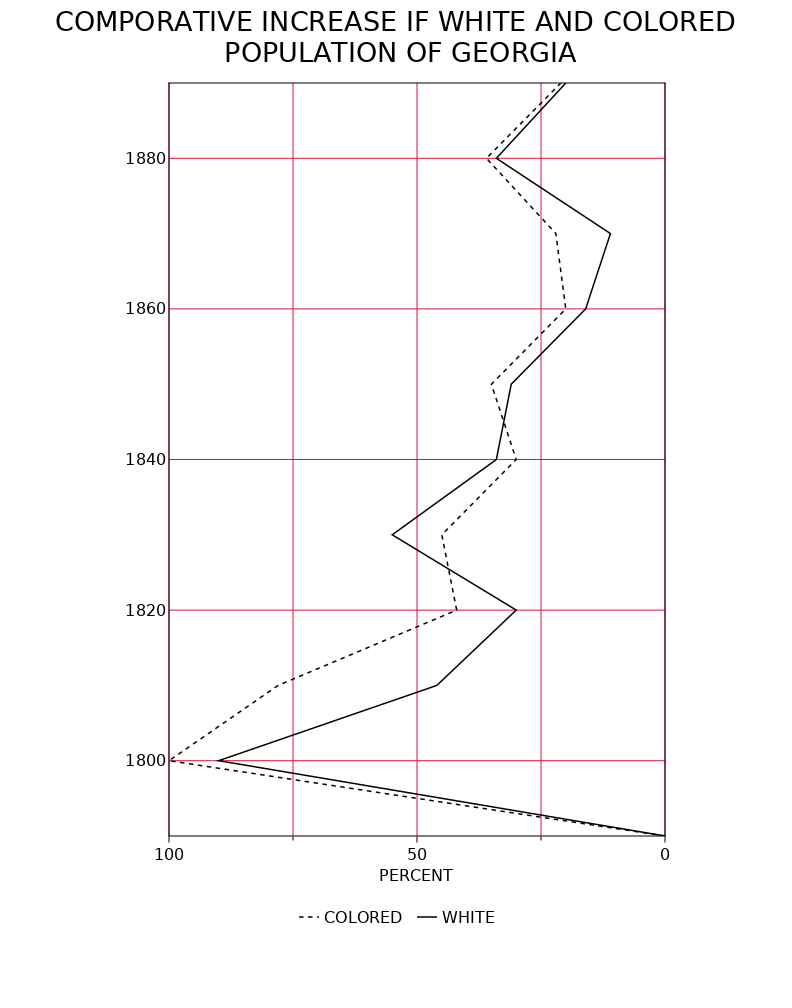
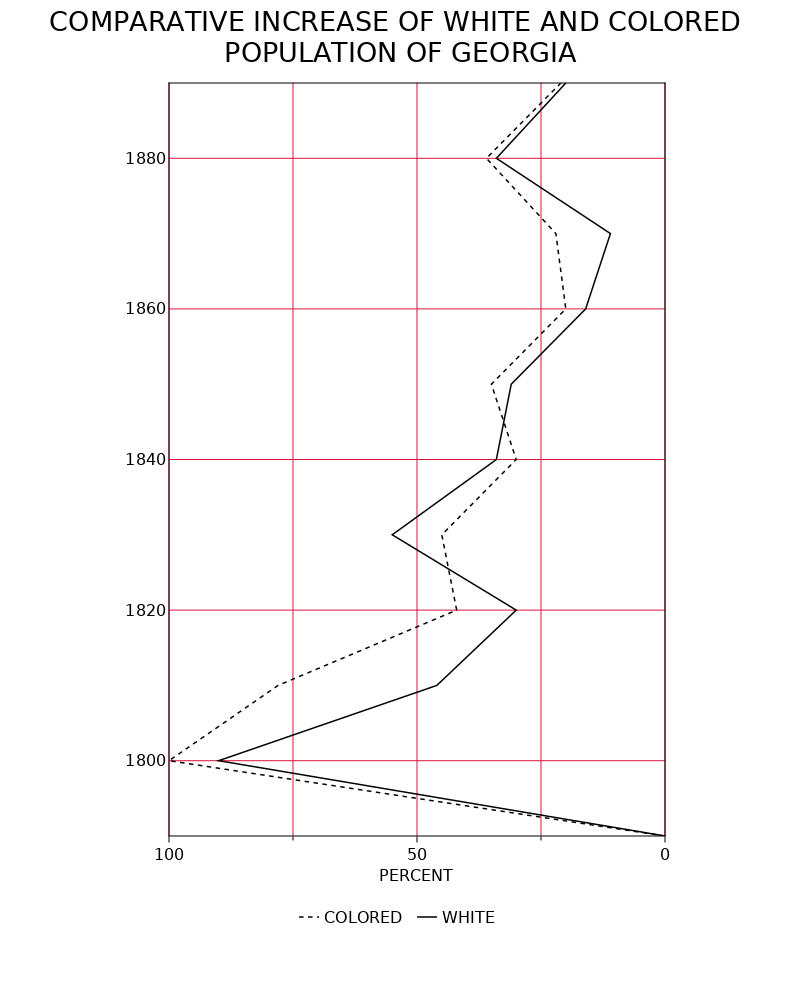
build based on 8bdc73d

Changed region(s): [[0.0606, 0.0, 0.9394, 0.0308]]

diff --git a/dev/search_index.js b/dev/search_index.js
@@ -1,3 +1,3 @@
 var documenterSearchIndex = {"docs":
-[{"location":"examples/#Examples","page":"Examples","title":"Examples","text":"","category":"section"},{"location":"examples/","page":"Examples","title":"Examples","text":"To show how to use the package in more detail we show how to use the recipes to replicate  the original plates by DuBois.","category":"page"},{"location":"examples/","page":"Examples","title":"Examples","text":"using DuBoisPlots\nusing CairoMakie # hide","category":"page"},{"location":"examples/#Plate-7","page":"Examples","title":"Plate 7","text":"","category":"section"},{"location":"examples/","page":"Examples","title":"Examples","text":"p = Plate7(DuBoisData.Plate7, :Year; \n        title=\"Comporative Increase if White and Colored \\n Population of Georgia\", \n        xlabel = \"Percent\")\nsave(\"plate7.png\", p) # hide\nnothing # hide","category":"page"},{"location":"examples/","page":"Examples","title":"Examples","text":"Original Replication\n(Image: Plot!) (Image: Replication)","category":"page"},{"location":"examples/#Plate-10","page":"Examples","title":"Plate 10","text":"","category":"section"},{"location":"examples/","page":"Examples","title":"Examples","text":"p =Plate10(DuBoisData.Plate10,:Age,:Population, 3:5,\n        [\"15-55\", \"45-65\", \"65+\"],\n        [\"Germany\", \"United States\"],\n        [\"Single\", \"Divorced\", \"Married\"],\"Conjugal Condition\")\nsave(\"plate10.png\", p) #hide\nnothing  #hide","category":"page"},{"location":"examples/","page":"Examples","title":"Examples","text":"Original Replication\n(Image: Plot!) (Image: Replication)","category":"page"},{"location":"examples/#Plate-11","page":"Examples","title":"Plate 11","text":"","category":"section"},{"location":"examples/","page":"Examples","title":"Examples","text":"p = Plate11(DuBoisData.Plate11,:Population,\n        [-0.0,0.12], [0.09,0.1], [0.025,0.075], [0.03,-0.09], [0.035,-0.035],\n        \"no\", \"City and Rural Population \\n 1890.\",\n        \" negroes in cities \\n of over 10,000 inhabitants\",\n        \" negroes in cities \\n from 5,000 to 10,000\", \n        \" \\n negroes \\n in cities \\n from \\n 2,500 to 5,000\",\n        \" Negroes living in the country and villages\")\nsave(\"plate11.png\", p) #hide\nnothing  #hide","category":"page"},{"location":"examples/","page":"Examples","title":"Examples","text":"Original Replication\n(Image: Plot!) (Image: Replication)","category":"page"},{"location":"examples/#Plate-25","page":"Examples","title":"Plate 25","text":"","category":"section"},{"location":"examples/","page":"Examples","title":"Examples","text":"p = Plate25(DuBoisData.Plate25,:Year,:Value,\n        \"Assessed value of household and kitchen furniture \\n owned by Georgia negroes\")\nsave(\"plate25.png\", p) # hide\nnothing # hide","category":"page"},{"location":"examples/","page":"Examples","title":"Examples","text":"Original Replication\n(Image: Plot!) (Image: Replication)","category":"page"},{"location":"examples/#Plate-51","page":"Examples","title":"Plate 51","text":"","category":"section"},{"location":"examples/","page":"Examples","title":"Examples","text":"p = Plate51(DuBoisData.Plate51, :Year; \n        title=\"Proportion of Freemen and Salves Among American Negroes.\",\n        small_title=\"Proportion des Negres Libres et des Esclaves en Amerique\",\n        subtitle=\"Reproduced by DuBoisPlots.jl\")\nsave(\"plate51.png\", p)  # hide\nnothing # hide","category":"page"},{"location":"examples/","page":"Examples","title":"Examples","text":"Original Replication\n(Image: Plot!) (Image: Replication)","category":"page"},{"location":"examples/#Plate-53","page":"Examples","title":"Plate 53","text":"","category":"section"},{"location":"examples/","page":"Examples","title":"Examples","text":"p = Plate53(DuBoisData.Plate53,:Ages,:Gender,\n        [:Single, :Married, :Widowed],[45 1.2; 55 4.7; 93 8.], [25 2; 45 5.5; 65 8.],\n        title_1 = \"Conjugal condition of American Negroes according to age periods.\",\n        title_2 = \"Condition conjugale des Negres Americains au point de vue de l' age.\",\n        subtitle = \"Done by Atlanta University.\", bot_lab = \"PER CENTS.\")\nsave(\"plate53.png\", p) # hide\nnothing # hide","category":"page"},{"location":"examples/","page":"Examples","title":"Examples","text":"Original Replication\n(Image: Plot!) (Image: Replication)","category":"page"},{"location":"","page":"Home","title":"Home","text":"CurrentModule = DuBoisPlots","category":"page"},{"location":"#DuBoisPlots","page":"Home","title":"DuBoisPlots","text":"","category":"section"},{"location":"","page":"Home","title":"Home","text":"The package exports functions PlateX(df::DataFrame,args;OptionalArgs) that are used to replicate a specific plate. In addition, it also exports all the original data in DuBoisData.PlateX. ","category":"page"},{"location":"","page":"Home","title":"Home","text":"The Examples page displays the set of currently included plates and side-by-side comparisons to the original plates.","category":"page"},{"location":"","page":"Home","title":"Home","text":"To recreate Plates 11 and 51 you would do","category":"page"},{"location":"","page":"Home","title":"Home","text":"using DuBoisPlots\nusing CairoMakie # hide\np11 = Plate11(DuBoisData.Plate11,:Population,[-0.0,0.12], [0.09,0.1], [0.025,0.075], [0.03,-0.09], [0.035,-0.035],\n    \"no\", \"City and Rural Population \\n 1890.\", \" negroes in cities \\n of over 10,000 inhabitants\",\n    \" negroes in cities \\n from 5,000 to 10,000\", \" \\n negroes \\n in cities \\n from \\n 2,500 to 5,000\",\n    \" Negroes living in the country and villages\")\np51 = Plate51(DuBoisData.Plate51, :Year;\n        title=\"Proportion of Freemen and Salves Among American Negroes.\",\n        small_title=\"Proportion des Negres Libres et des Esclaves en Amerique\",\n        subtitle=\"Reproduced by DuBoisPlots.jl\")\nsave(\"plate51_index.png\", p51) #hide\nsave(\"plate11_index.png\", p11) #hide\nnothing  #hide","category":"page"},{"location":"","page":"Home","title":"Home","text":"Plate 11 Plate 51\n(Image: Plot!) (Image: Replication)","category":"page"},{"location":"#Index","page":"Home","title":"Index","text":"","category":"section"},{"location":"","page":"Home","title":"Home","text":"","category":"page"}]
+[{"location":"examples/#Examples","page":"Examples","title":"Examples","text":"","category":"section"},{"location":"examples/","page":"Examples","title":"Examples","text":"To show how to use the package in more detail we show how to use the recipes to replicate  the original plates by DuBois.","category":"page"},{"location":"examples/","page":"Examples","title":"Examples","text":"using DuBoisPlots\nusing CairoMakie # hide","category":"page"},{"location":"examples/#Plate-7","page":"Examples","title":"Plate 7","text":"","category":"section"},{"location":"examples/","page":"Examples","title":"Examples","text":"p = Plate7(DuBoisData.Plate7, :Year; \n        title=\"Comparative Increase of White and Colored \\n Population of Georgia\", \n        xlabel = \"Percent\")\nsave(\"plate7.png\", p) # hide\nnothing # hide","category":"page"},{"location":"examples/","page":"Examples","title":"Examples","text":"Original Replication\n(Image: Plot!) (Image: Replication)","category":"page"},{"location":"examples/#Plate-10","page":"Examples","title":"Plate 10","text":"","category":"section"},{"location":"examples/","page":"Examples","title":"Examples","text":"p =Plate10(DuBoisData.Plate10,:Age,:Population, 3:5,\n        [\"15-55\", \"45-65\", \"65+\"],\n        [\"Germany\", \"United States\"],\n        [\"Single\", \"Divorced\", \"Married\"],\"Conjugal Condition\")\nsave(\"plate10.png\", p) #hide\nnothing  #hide","category":"page"},{"location":"examples/","page":"Examples","title":"Examples","text":"Original Replication\n(Image: Plot!) (Image: Replication)","category":"page"},{"location":"examples/#Plate-11","page":"Examples","title":"Plate 11","text":"","category":"section"},{"location":"examples/","page":"Examples","title":"Examples","text":"p = Plate11(DuBoisData.Plate11,:Population,\n        [-0.0,0.12], [0.09,0.1], [0.025,0.075], [0.03,-0.09], [0.035,-0.035],\n        \"no\", \"City and Rural Population \\n 1890.\",\n        \" negroes in cities \\n of over 10,000 inhabitants\",\n        \" negroes in cities \\n from 5,000 to 10,000\", \n        \" \\n negroes \\n in cities \\n from \\n 2,500 to 5,000\",\n        \" Negroes living in the country and villages\")\nsave(\"plate11.png\", p) #hide\nnothing  #hide","category":"page"},{"location":"examples/","page":"Examples","title":"Examples","text":"Original Replication\n(Image: Plot!) (Image: Replication)","category":"page"},{"location":"examples/#Plate-25","page":"Examples","title":"Plate 25","text":"","category":"section"},{"location":"examples/","page":"Examples","title":"Examples","text":"p = Plate25(DuBoisData.Plate25,:Year,:Value,\n        \"Assessed value of household and kitchen furniture \\n owned by Georgia negroes\")\nsave(\"plate25.png\", p) # hide\nnothing # hide","category":"page"},{"location":"examples/","page":"Examples","title":"Examples","text":"Original Replication\n(Image: Plot!) (Image: Replication)","category":"page"},{"location":"examples/#Plate-51","page":"Examples","title":"Plate 51","text":"","category":"section"},{"location":"examples/","page":"Examples","title":"Examples","text":"p = Plate51(DuBoisData.Plate51, :Year; \n        title=\"Proportion of Freemen and Salves Among American Negroes.\",\n        small_title=\"Proportion des Negres Libres et des Esclaves en Amerique\",\n        subtitle=\"Reproduced by DuBoisPlots.jl\")\nsave(\"plate51.png\", p)  # hide\nnothing # hide","category":"page"},{"location":"examples/","page":"Examples","title":"Examples","text":"Original Replication\n(Image: Plot!) (Image: Replication)","category":"page"},{"location":"examples/#Plate-53","page":"Examples","title":"Plate 53","text":"","category":"section"},{"location":"examples/","page":"Examples","title":"Examples","text":"p = Plate53(DuBoisData.Plate53,:Ages,:Gender,\n        [:Single, :Married, :Widowed],[45 1.2; 55 4.7; 93 8.], [25 2; 45 5.5; 65 8.],\n        title_1 = \"Conjugal condition of American Negroes according to age periods.\",\n        title_2 = \"Condition conjugale des Negres Americains au point de vue de l' age.\",\n        subtitle = \"Done by Atlanta University.\", bot_lab = \"PER CENTS.\")\nsave(\"plate53.png\", p) # hide\nnothing # hide","category":"page"},{"location":"examples/","page":"Examples","title":"Examples","text":"Original Replication\n(Image: Plot!) (Image: Replication)","category":"page"},{"location":"","page":"Home","title":"Home","text":"CurrentModule = DuBoisPlots","category":"page"},{"location":"#DuBoisPlots","page":"Home","title":"DuBoisPlots","text":"","category":"section"},{"location":"","page":"Home","title":"Home","text":"The package exports functions PlateX(df::DataFrame,args;OptionalArgs) that are used to replicate a specific plate. In addition, it also exports all the original data in DuBoisData.PlateX. ","category":"page"},{"location":"","page":"Home","title":"Home","text":"The Examples page displays the set of currently included plates and side-by-side comparisons to the original plates.","category":"page"},{"location":"","page":"Home","title":"Home","text":"To recreate Plates 11 and 51 you would do","category":"page"},{"location":"","page":"Home","title":"Home","text":"using DuBoisPlots\nusing CairoMakie # hide\np11 = Plate11(DuBoisData.Plate11,:Population,[-0.0,0.12], [0.09,0.1], [0.025,0.075], [0.03,-0.09], [0.035,-0.035],\n    \"no\", \"City and Rural Population \\n 1890.\", \" negroes in cities \\n of over 10,000 inhabitants\",\n    \" negroes in cities \\n from 5,000 to 10,000\", \" \\n negroes \\n in cities \\n from \\n 2,500 to 5,000\",\n    \" Negroes living in the country and villages\")\np51 = Plate51(DuBoisData.Plate51, :Year;\n        title=\"Proportion of Freemen and Salves Among American Negroes.\",\n        small_title=\"Proportion des Negres Libres et des Esclaves en Amerique\",\n        subtitle=\"Reproduced by DuBoisPlots.jl\")\nsave(\"plate51_index.png\", p51) #hide\nsave(\"plate11_index.png\", p11) #hide\nnothing  #hide","category":"page"},{"location":"","page":"Home","title":"Home","text":"Plate 11 Plate 51\n(Image: Plot!) (Image: Replication)","category":"page"},{"location":"#Index","page":"Home","title":"Index","text":"","category":"section"},{"location":"","page":"Home","title":"Home","text":"","category":"page"}]
 }

diff --git a/dev/examples/index.html b/dev/examples/index.html
@@ -1,6 +1,6 @@
 <!DOCTYPE html>
 <html lang="en"><head><meta charset="UTF-8"/><meta name="viewport" content="width=device-width, initial-scale=1.0"/><title>Examples · DuBoisPlots.jl</title><script data-outdated-warner src="../assets/warner.js"></script><link rel="canonical" href="https://eirikbrandsaas.github.io/DuBoisPlots.jl/examples/"/><link href="https://cdnjs.cloudflare.com/ajax/libs/lato-font/3.0.0/css/lato-font.min.css" rel="stylesheet" type="text/css"/><link href="https://cdnjs.cloudflare.com/ajax/libs/juliamono/0.044/juliamono.css" rel="stylesheet" type="text/css"/><link href="https://cdnjs.cloudflare.com/ajax/libs/font-awesome/5.15.3/css/fontawesome.min.css" rel="stylesheet" type="text/css"/><link href="https://cdnjs.cloudflare.com/ajax/libs/font-awesome/5.15.3/css/solid.min.css" rel="stylesheet" type="text/css"/><link href="https://cdnjs.cloudflare.com/ajax/libs/font-awesome/5.15.3/css/brands.min.css" rel="stylesheet" type="text/css"/><link href="https://cdnjs.cloudflare.com/ajax/libs/KaTeX/0.13.11/katex.min.css" rel="stylesheet" type="text/css"/><script>documenterBaseURL=".."</script><script src="https://cdnjs.cloudflare.com/ajax/libs/require.js/2.3.6/require.min.js" data-main="../assets/documenter.js"></script><script src="../siteinfo.js"></script><script src="../../versions.js"></script><link class="docs-theme-link" rel="stylesheet" type="text/css" href="../assets/themes/documenter-dark.css" data-theme-name="documenter-dark" data-theme-primary-dark/><link class="docs-theme-link" rel="stylesheet" type="text/css" href="../assets/themes/documenter-light.css" data-theme-name="documenter-light" data-theme-primary/><script src="../assets/themeswap.js"></script></head><body><div id="documenter"><nav class="docs-sidebar"><div class="docs-package-name"><span class="docs-autofit"><a href="../">DuBoisPlots.jl</a></span></div><form class="docs-search" action="../search/"><input class="docs-search-query" id="documenter-search-query" name="q" type="text" placeholder="Search docs"/></form><ul class="docs-menu"><li><a class="tocitem" href="../">Home</a></li><li class="is-active"><a class="tocitem" href>Examples</a><ul class="internal"><li><a class="tocitem" href="#Plate-7"><span>Plate 7</span></a></li><li><a class="tocitem" href="#Plate-10"><span>Plate 10</span></a></li><li><a class="tocitem" href="#Plate-11"><span>Plate 11</span></a></li><li><a class="tocitem" href="#Plate-25"><span>Plate 25</span></a></li><li><a class="tocitem" href="#Plate-51"><span>Plate 51</span></a></li><li><a class="tocitem" href="#Plate-53"><span>Plate 53</span></a></li></ul></li></ul><div class="docs-version-selector field has-addons"><div class="control"><span class="docs-label button is-static is-size-7">Version</span></div><div class="docs-selector control is-expanded"><div class="select is-fullwidth is-size-7"><select id="documenter-version-selector"></select></div></div></div></nav><div class="docs-main"><header class="docs-navbar"><nav class="breadcrumb"><ul class="is-hidden-mobile"><li class="is-active"><a href>Examples</a></li></ul><ul class="is-hidden-tablet"><li class="is-active"><a href>Examples</a></li></ul></nav><div class="docs-right"><a class="docs-edit-link" href="https://github.com/eirikbrandsaas/DuBoisPlots.jl/blob/main/docs/src/examples.md#" title="Edit on GitHub"><span class="docs-icon fab"></span><span class="docs-label is-hidden-touch">Edit on GitHub</span></a><a class="docs-settings-button fas fa-cog" id="documenter-settings-button" href="#" title="Settings"></a><a class="docs-sidebar-button fa fa-bars is-hidden-desktop" id="documenter-sidebar-button" href="#"></a></div></header><article class="content" id="documenter-page"><h1 id="Examples"><a class="docs-heading-anchor" href="#Examples">Examples</a><a id="Examples-1"></a><a class="docs-heading-anchor-permalink" href="#Examples" title="Permalink"></a></h1><p>To show how to use the package in more detail we show how to use the recipes to replicate  the original plates by DuBois.</p><pre><code class="language-julia hljs">using DuBoisPlots</code></pre><h2 id="Plate-7"><a class="docs-heading-anchor" href="#Plate-7">Plate 7</a><a id="Plate-7-1"></a><a class="docs-heading-anchor-permalink" href="#Plate-7" title="Permalink"></a></h2><pre><code class="language-julia hljs">p = Plate7(DuBoisData.Plate7, :Year;
-        title=&quot;Comporative Increase if White and Colored \n Population of Georgia&quot;,
+        title=&quot;Comparative Increase of White and Colored \n Population of Georgia&quot;,
         xlabel = &quot;Percent&quot;)</code></pre><table><tr><th style="text-align: center">Original</th><th style="text-align: center">Replication</th></tr><tr><td style="text-align: center"><img src="../assets/original-plate-07.jpg" alt="Plot!"/></td><td style="text-align: center"><img src="../plate7.png" alt="Replication"/></td></tr></table><h2 id="Plate-10"><a class="docs-heading-anchor" href="#Plate-10">Plate 10</a><a id="Plate-10-1"></a><a class="docs-heading-anchor-permalink" href="#Plate-10" title="Permalink"></a></h2><pre><code class="language-julia hljs">p =Plate10(DuBoisData.Plate10,:Age,:Population, 3:5,
         [&quot;15-55&quot;, &quot;45-65&quot;, &quot;65+&quot;],
         [&quot;Germany&quot;, &quot;United States&quot;],
@@ -18,4 +18,4 @@
         [:Single, :Married, :Widowed],[45 1.2; 55 4.7; 93 8.], [25 2; 45 5.5; 65 8.],
         title_1 = &quot;Conjugal condition of American Negroes according to age periods.&quot;,
         title_2 = &quot;Condition conjugale des Negres Americains au point de vue de l&#39; age.&quot;,
-        subtitle = &quot;Done by Atlanta University.&quot;, bot_lab = &quot;PER CENTS.&quot;)</code></pre><table><tr><th style="text-align: center">Original</th><th style="text-align: center">Replication</th></tr><tr><td style="text-align: center"><img src="../assets/original-plate-53.jpg" alt="Plot!"/></td><td style="text-align: center"><img src="../plate53.png" alt="Replication"/></td></tr></table></article><nav class="docs-footer"><a class="docs-footer-prevpage" href="../">« Home</a><div class="flexbox-break"></div><p class="footer-message">Powered by <a href="https://github.com/JuliaDocs/Documenter.jl">Documenter.jl</a> and the <a href="https://julialang.org/">Julia Programming Language</a>.</p></nav></div><div class="modal" id="documenter-settings"><div class="modal-background"></div><div class="modal-card"><header class="modal-card-head"><p class="modal-card-title">Settings</p><button class="delete"></button></header><section class="modal-card-body"><p><label class="label">Theme</label><div class="select"><select id="documenter-themepicker"><option value="documenter-light">documenter-light</option><option value="documenter-dark">documenter-dark</option></select></div></p><hr/><p>This document was generated with <a href="https://github.com/JuliaDocs/Documenter.jl">Documenter.jl</a> version 0.27.19 on <span class="colophon-date" title="Friday 8 July 2022 12:52">Friday 8 July 2022</span>. Using Julia version 1.5.4.</p></section><footer class="modal-card-foot"></footer></div></div></div></body></html>
+        subtitle = &quot;Done by Atlanta University.&quot;, bot_lab = &quot;PER CENTS.&quot;)</code></pre><table><tr><th style="text-align: center">Original</th><th style="text-align: center">Replication</th></tr><tr><td style="text-align: center"><img src="../assets/original-plate-53.jpg" alt="Plot!"/></td><td style="text-align: center"><img src="../plate53.png" alt="Replication"/></td></tr></table></article><nav class="docs-footer"><a class="docs-footer-prevpage" href="../">« Home</a><div class="flexbox-break"></div><p class="footer-message">Powered by <a href="https://github.com/JuliaDocs/Documenter.jl">Documenter.jl</a> and the <a href="https://julialang.org/">Julia Programming Language</a>.</p></nav></div><div class="modal" id="documenter-settings"><div class="modal-background"></div><div class="modal-card"><header class="modal-card-head"><p class="modal-card-title">Settings</p><button class="delete"></button></header><section class="modal-card-body"><p><label class="label">Theme</label><div class="select"><select id="documenter-themepicker"><option value="documenter-light">documenter-light</option><option value="documenter-dark">documenter-dark</option></select></div></p><hr/><p>This document was generated with <a href="https://github.com/JuliaDocs/Documenter.jl">Documenter.jl</a> version 0.27.19 on <span class="colophon-date" title="Friday 7 April 2023 15:28">Friday 7 April 2023</span>. Using Julia version 1.8.5.</p></section><footer class="modal-card-foot"></footer></div></div></div></body></html>

diff --git a/dev/search/index.html b/dev/search/index.html
@@ -1,2 +1,2 @@
 <!DOCTYPE html>
-<html lang="en"><head><meta charset="UTF-8"/><meta name="viewport" content="width=device-width, initial-scale=1.0"/><title>Search · DuBoisPlots.jl</title><script data-outdated-warner src="../assets/warner.js"></script><link rel="canonical" href="https://eirikbrandsaas.github.io/DuBoisPlots.jl/search/"/><link href="https://cdnjs.cloudflare.com/ajax/libs/lato-font/3.0.0/css/lato-font.min.css" rel="stylesheet" type="text/css"/><link href="https://cdnjs.cloudflare.com/ajax/libs/juliamono/0.044/juliamono.css" rel="stylesheet" type="text/css"/><link href="https://cdnjs.cloudflare.com/ajax/libs/font-awesome/5.15.3/css/fontawesome.min.css" rel="stylesheet" type="text/css"/><link href="https://cdnjs.cloudflare.com/ajax/libs/font-awesome/5.15.3/css/solid.min.css" rel="stylesheet" type="text/css"/><link href="https://cdnjs.cloudflare.com/ajax/libs/font-awesome/5.15.3/css/brands.min.css" rel="stylesheet" type="text/css"/><link href="https://cdnjs.cloudflare.com/ajax/libs/KaTeX/0.13.11/katex.min.css" rel="stylesheet" type="text/css"/><script>documenterBaseURL=".."</script><script src="https://cdnjs.cloudflare.com/ajax/libs/require.js/2.3.6/require.min.js" data-main="../assets/documenter.js"></script><script src="../siteinfo.js"></script><script src="../../versions.js"></script><link class="docs-theme-link" rel="stylesheet" type="text/css" href="../assets/themes/documenter-dark.css" data-theme-name="documenter-dark" data-theme-primary-dark/><link class="docs-theme-link" rel="stylesheet" type="text/css" href="../assets/themes/documenter-light.css" data-theme-name="documenter-light" data-theme-primary/><script src="../assets/themeswap.js"></script></head><body><div id="documenter"><nav class="docs-sidebar"><div class="docs-package-name"><span class="docs-autofit"><a href="../">DuBoisPlots.jl</a></span></div><form class="docs-search" action><input class="docs-search-query" id="documenter-search-query" name="q" type="text" placeholder="Search docs"/></form><ul class="docs-menu"><li><a class="tocitem" href="../">Home</a></li><li><a class="tocitem" href="../examples/">Examples</a></li></ul><div class="docs-version-selector field has-addons"><div class="control"><span class="docs-label button is-static is-size-7">Version</span></div><div class="docs-selector control is-expanded"><div class="select is-fullwidth is-size-7"><select id="documenter-version-selector"></select></div></div></div></nav><div class="docs-main"><header class="docs-navbar"><nav class="breadcrumb"><ul class="is-hidden-mobile"><li class="is-active"><a href>Search</a></li></ul><ul class="is-hidden-tablet"><li class="is-active"><a href>Search</a></li></ul></nav><div class="docs-right"><a class="docs-settings-button fas fa-cog" id="documenter-settings-button" href="#" title="Settings"></a><a class="docs-sidebar-button fa fa-bars is-hidden-desktop" id="documenter-sidebar-button" href="#"></a></div></header><article><p id="documenter-search-info">Loading search...</p><ul id="documenter-search-results"></ul></article><nav class="docs-footer"><p class="footer-message">Powered by <a href="https://github.com/JuliaDocs/Documenter.jl">Documenter.jl</a> and the <a href="https://julialang.org/">Julia Programming Language</a>.</p></nav></div><div class="modal" id="documenter-settings"><div class="modal-background"></div><div class="modal-card"><header class="modal-card-head"><p class="modal-card-title">Settings</p><button class="delete"></button></header><section class="modal-card-body"><p><label class="label">Theme</label><div class="select"><select id="documenter-themepicker"><option value="documenter-light">documenter-light</option><option value="documenter-dark">documenter-dark</option></select></div></p><hr/><p>This document was generated with <a href="https://github.com/JuliaDocs/Documenter.jl">Documenter.jl</a> version 0.27.19 on <span class="colophon-date" title="Friday 8 July 2022 12:52">Friday 8 July 2022</span>. Using Julia version 1.5.4.</p></section><footer class="modal-card-foot"></footer></div></div></div></body><script src="../search_index.js"></script><script src="../assets/search.js"></script></html>
+<html lang="en"><head><meta charset="UTF-8"/><meta name="viewport" content="width=device-width, initial-scale=1.0"/><title>Search · DuBoisPlots.jl</title><script data-outdated-warner src="../assets/warner.js"></script><link rel="canonical" href="https://eirikbrandsaas.github.io/DuBoisPlots.jl/search/"/><link href="https://cdnjs.cloudflare.com/ajax/libs/lato-font/3.0.0/css/lato-font.min.css" rel="stylesheet" type="text/css"/><link href="https://cdnjs.cloudflare.com/ajax/libs/juliamono/0.044/juliamono.css" rel="stylesheet" type="text/css"/><link href="https://cdnjs.cloudflare.com/ajax/libs/font-awesome/5.15.3/css/fontawesome.min.css" rel="stylesheet" type="text/css"/><link href="https://cdnjs.cloudflare.com/ajax/libs/font-awesome/5.15.3/css/solid.min.css" rel="stylesheet" type="text/css"/><link href="https://cdnjs.cloudflare.com/ajax/libs/font-awesome/5.15.3/css/brands.min.css" rel="stylesheet" type="text/css"/><link href="https://cdnjs.cloudflare.com/ajax/libs/KaTeX/0.13.11/katex.min.css" rel="stylesheet" type="text/css"/><script>documenterBaseURL=".."</script><script src="https://cdnjs.cloudflare.com/ajax/libs/require.js/2.3.6/require.min.js" data-main="../assets/documenter.js"></script><script src="../siteinfo.js"></script><script src="../../versions.js"></script><link class="docs-theme-link" rel="stylesheet" type="text/css" href="../assets/themes/documenter-dark.css" data-theme-name="documenter-dark" data-theme-primary-dark/><link class="docs-theme-link" rel="stylesheet" type="text/css" href="../assets/themes/documenter-light.css" data-theme-name="documenter-light" data-theme-primary/><script src="../assets/themeswap.js"></script></head><body><div id="documenter"><nav class="docs-sidebar"><div class="docs-package-name"><span class="docs-autofit"><a href="../">DuBoisPlots.jl</a></span></div><form class="docs-search" action><input class="docs-search-query" id="documenter-search-query" name="q" type="text" placeholder="Search docs"/></form><ul class="docs-menu"><li><a class="tocitem" href="../">Home</a></li><li><a class="tocitem" href="../examples/">Examples</a></li></ul><div class="docs-version-selector field has-addons"><div class="control"><span class="docs-label button is-static is-size-7">Version</span></div><div class="docs-selector control is-expanded"><div class="select is-fullwidth is-size-7"><select id="documenter-version-selector"></select></div></div></div></nav><div class="docs-main"><header class="docs-navbar"><nav class="breadcrumb"><ul class="is-hidden-mobile"><li class="is-active"><a href>Search</a></li></ul><ul class="is-hidden-tablet"><li class="is-active"><a href>Search</a></li></ul></nav><div class="docs-right"><a class="docs-settings-button fas fa-cog" id="documenter-settings-button" href="#" title="Settings"></a><a class="docs-sidebar-button fa fa-bars is-hidden-desktop" id="documenter-sidebar-button" href="#"></a></div></header><article><p id="documenter-search-info">Loading search...</p><ul id="documenter-search-results"></ul></article><nav class="docs-footer"><p class="footer-message">Powered by <a href="https://github.com/JuliaDocs/Documenter.jl">Documenter.jl</a> and the <a href="https://julialang.org/">Julia Programming Language</a>.</p></nav></div><div class="modal" id="documenter-settings"><div class="modal-background"></div><div class="modal-card"><header class="modal-card-head"><p class="modal-card-title">Settings</p><button class="delete"></button></header><section class="modal-card-body"><p><label class="label">Theme</label><div class="select"><select id="documenter-themepicker"><option value="documenter-light">documenter-light</option><option value="documenter-dark">documenter-dark</option></select></div></p><hr/><p>This document was generated with <a href="https://github.com/JuliaDocs/Documenter.jl">Documenter.jl</a> version 0.27.19 on <span class="colophon-date" title="Friday 7 April 2023 15:28">Friday 7 April 2023</span>. Using Julia version 1.8.5.</p></section><footer class="modal-card-foot"></footer></div></div></div></body><script src="../search_index.js"></script><script src="../assets/search.js"></script></html>

diff --git a/dev/index.html b/dev/index.html
@@ -7,4 +7,4 @@ p11 = Plate11(DuBoisData.Plate11,:Population,[-0.0,0.12], [0.09,0.1], [0.025,0.0
 p51 = Plate51(DuBoisData.Plate51, :Year;
         title=&quot;Proportion of Freemen and Salves Among American Negroes.&quot;,
         small_title=&quot;Proportion des Negres Libres et des Esclaves en Amerique&quot;,
-        subtitle=&quot;Reproduced by DuBoisPlots.jl&quot;)</code></pre><table><tr><th style="text-align: center">Plate 11</th><th style="text-align: center">Plate 51</th></tr><tr><td style="text-align: center"><img src="plate11_index.png" alt="Plot!"/></td><td style="text-align: center"><img src="plate51_index.png" alt="Replication"/></td></tr></table><h2 id="Index"><a class="docs-heading-anchor" href="#Index">Index</a><a id="Index-1"></a><a class="docs-heading-anchor-permalink" href="#Index" title="Permalink"></a></h2><ul></ul></article><nav class="docs-footer"><a class="docs-footer-nextpage" href="examples/">Examples »</a><div class="flexbox-break"></div><p class="footer-message">Powered by <a href="https://github.com/JuliaDocs/Documenter.jl">Documenter.jl</a> and the <a href="https://julialang.org/">Julia Programming Language</a>.</p></nav></div><div class="modal" id="documenter-settings"><div class="modal-background"></div><div class="modal-card"><header class="modal-card-head"><p class="modal-card-title">Settings</p><button class="delete"></button></header><section class="modal-card-body"><p><label class="label">Theme</label><div class="select"><select id="documenter-themepicker"><option value="documenter-light">documenter-light</option><option value="documenter-dark">documenter-dark</option></select></div></p><hr/><p>This document was generated with <a href="https://github.com/JuliaDocs/Documenter.jl">Documenter.jl</a> version 0.27.19 on <span class="colophon-date" title="Friday 8 July 2022 12:52">Friday 8 July 2022</span>. Using Julia version 1.5.4.</p></section><footer class="modal-card-foot"></footer></div></div></div></body></html>
+        subtitle=&quot;Reproduced by DuBoisPlots.jl&quot;)</code></pre><table><tr><th style="text-align: center">Plate 11</th><th style="text-align: center">Plate 51</th></tr><tr><td style="text-align: center"><img src="plate11_index.png" alt="Plot!"/></td><td style="text-align: center"><img src="plate51_index.png" alt="Replication"/></td></tr></table><h2 id="Index"><a class="docs-heading-anchor" href="#Index">Index</a><a id="Index-1"></a><a class="docs-heading-anchor-permalink" href="#Index" title="Permalink"></a></h2><ul></ul></article><nav class="docs-footer"><a class="docs-footer-nextpage" href="examples/">Examples »</a><div class="flexbox-break"></div><p class="footer-message">Powered by <a href="https://github.com/JuliaDocs/Documenter.jl">Documenter.jl</a> and the <a href="https://julialang.org/">Julia Programming Language</a>.</p></nav></div><div class="modal" id="documenter-settings"><div class="modal-background"></div><div class="modal-card"><header class="modal-card-head"><p class="modal-card-title">Settings</p><button class="delete"></button></header><section class="modal-card-body"><p><label class="label">Theme</label><div class="select"><select id="documenter-themepicker"><option value="documenter-light">documenter-light</option><option value="documenter-dark">documenter-dark</option></select></div></p><hr/><p>This document was generated with <a href="https://github.com/JuliaDocs/Documenter.jl">Documenter.jl</a> version 0.27.19 on <span class="colophon-date" title="Friday 7 April 2023 15:28">Friday 7 April 2023</span>. Using Julia version 1.8.5.</p></section><footer class="modal-card-foot"></footer></div></div></div></body></html>
